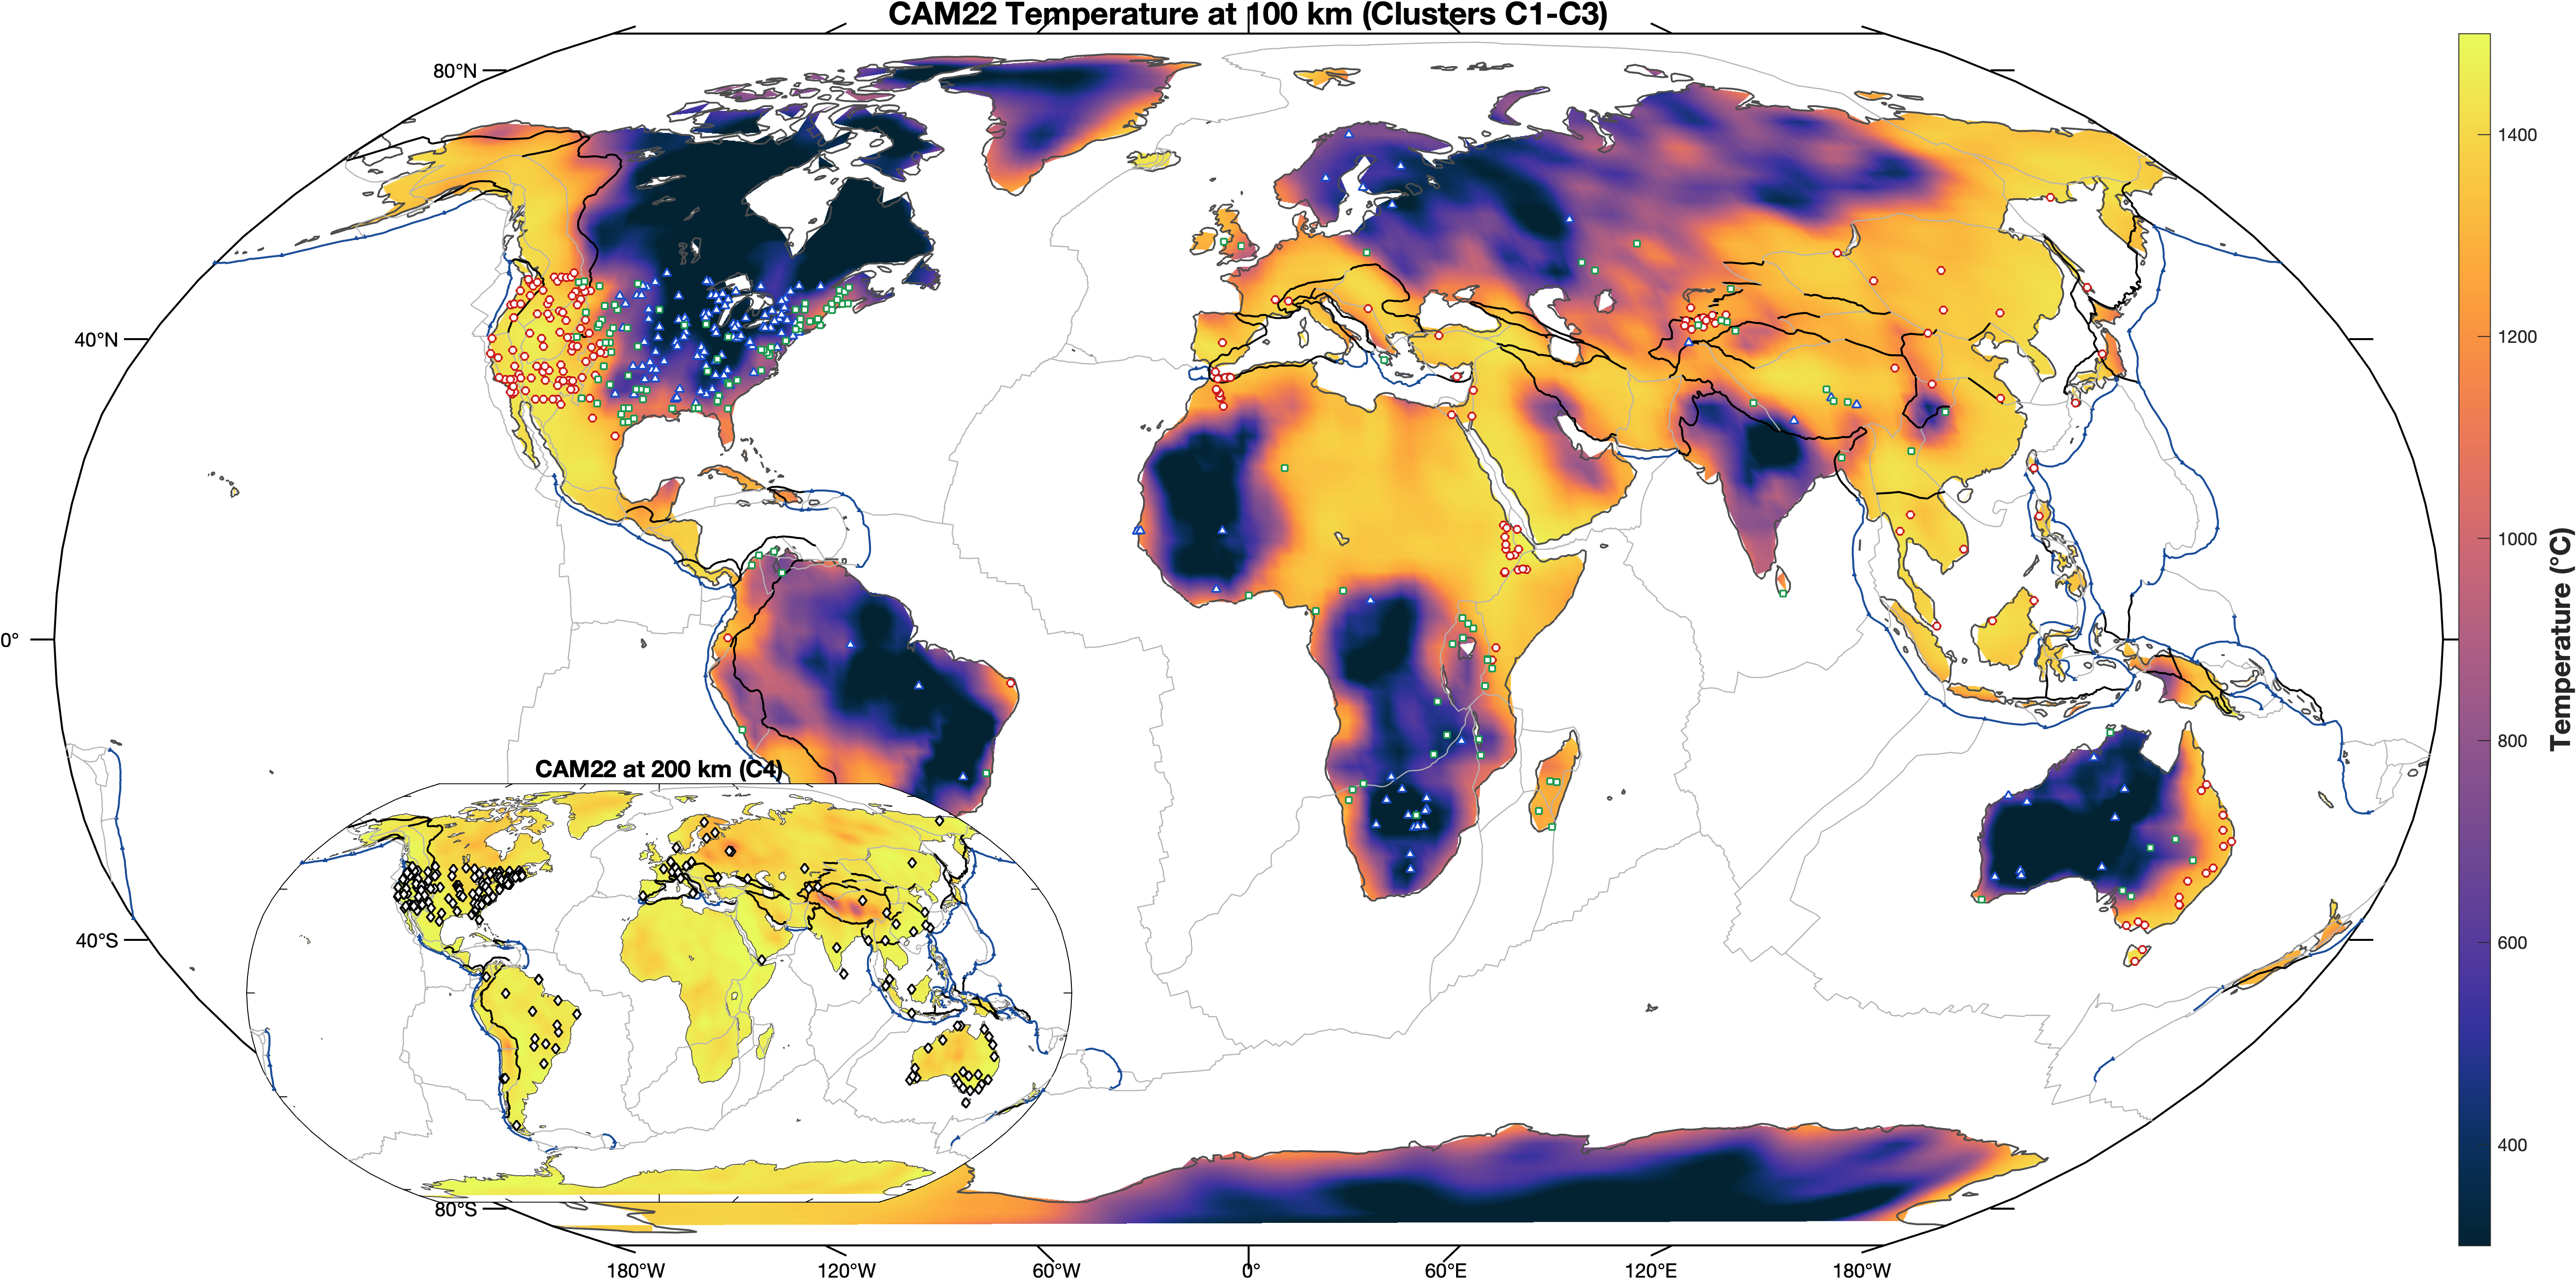
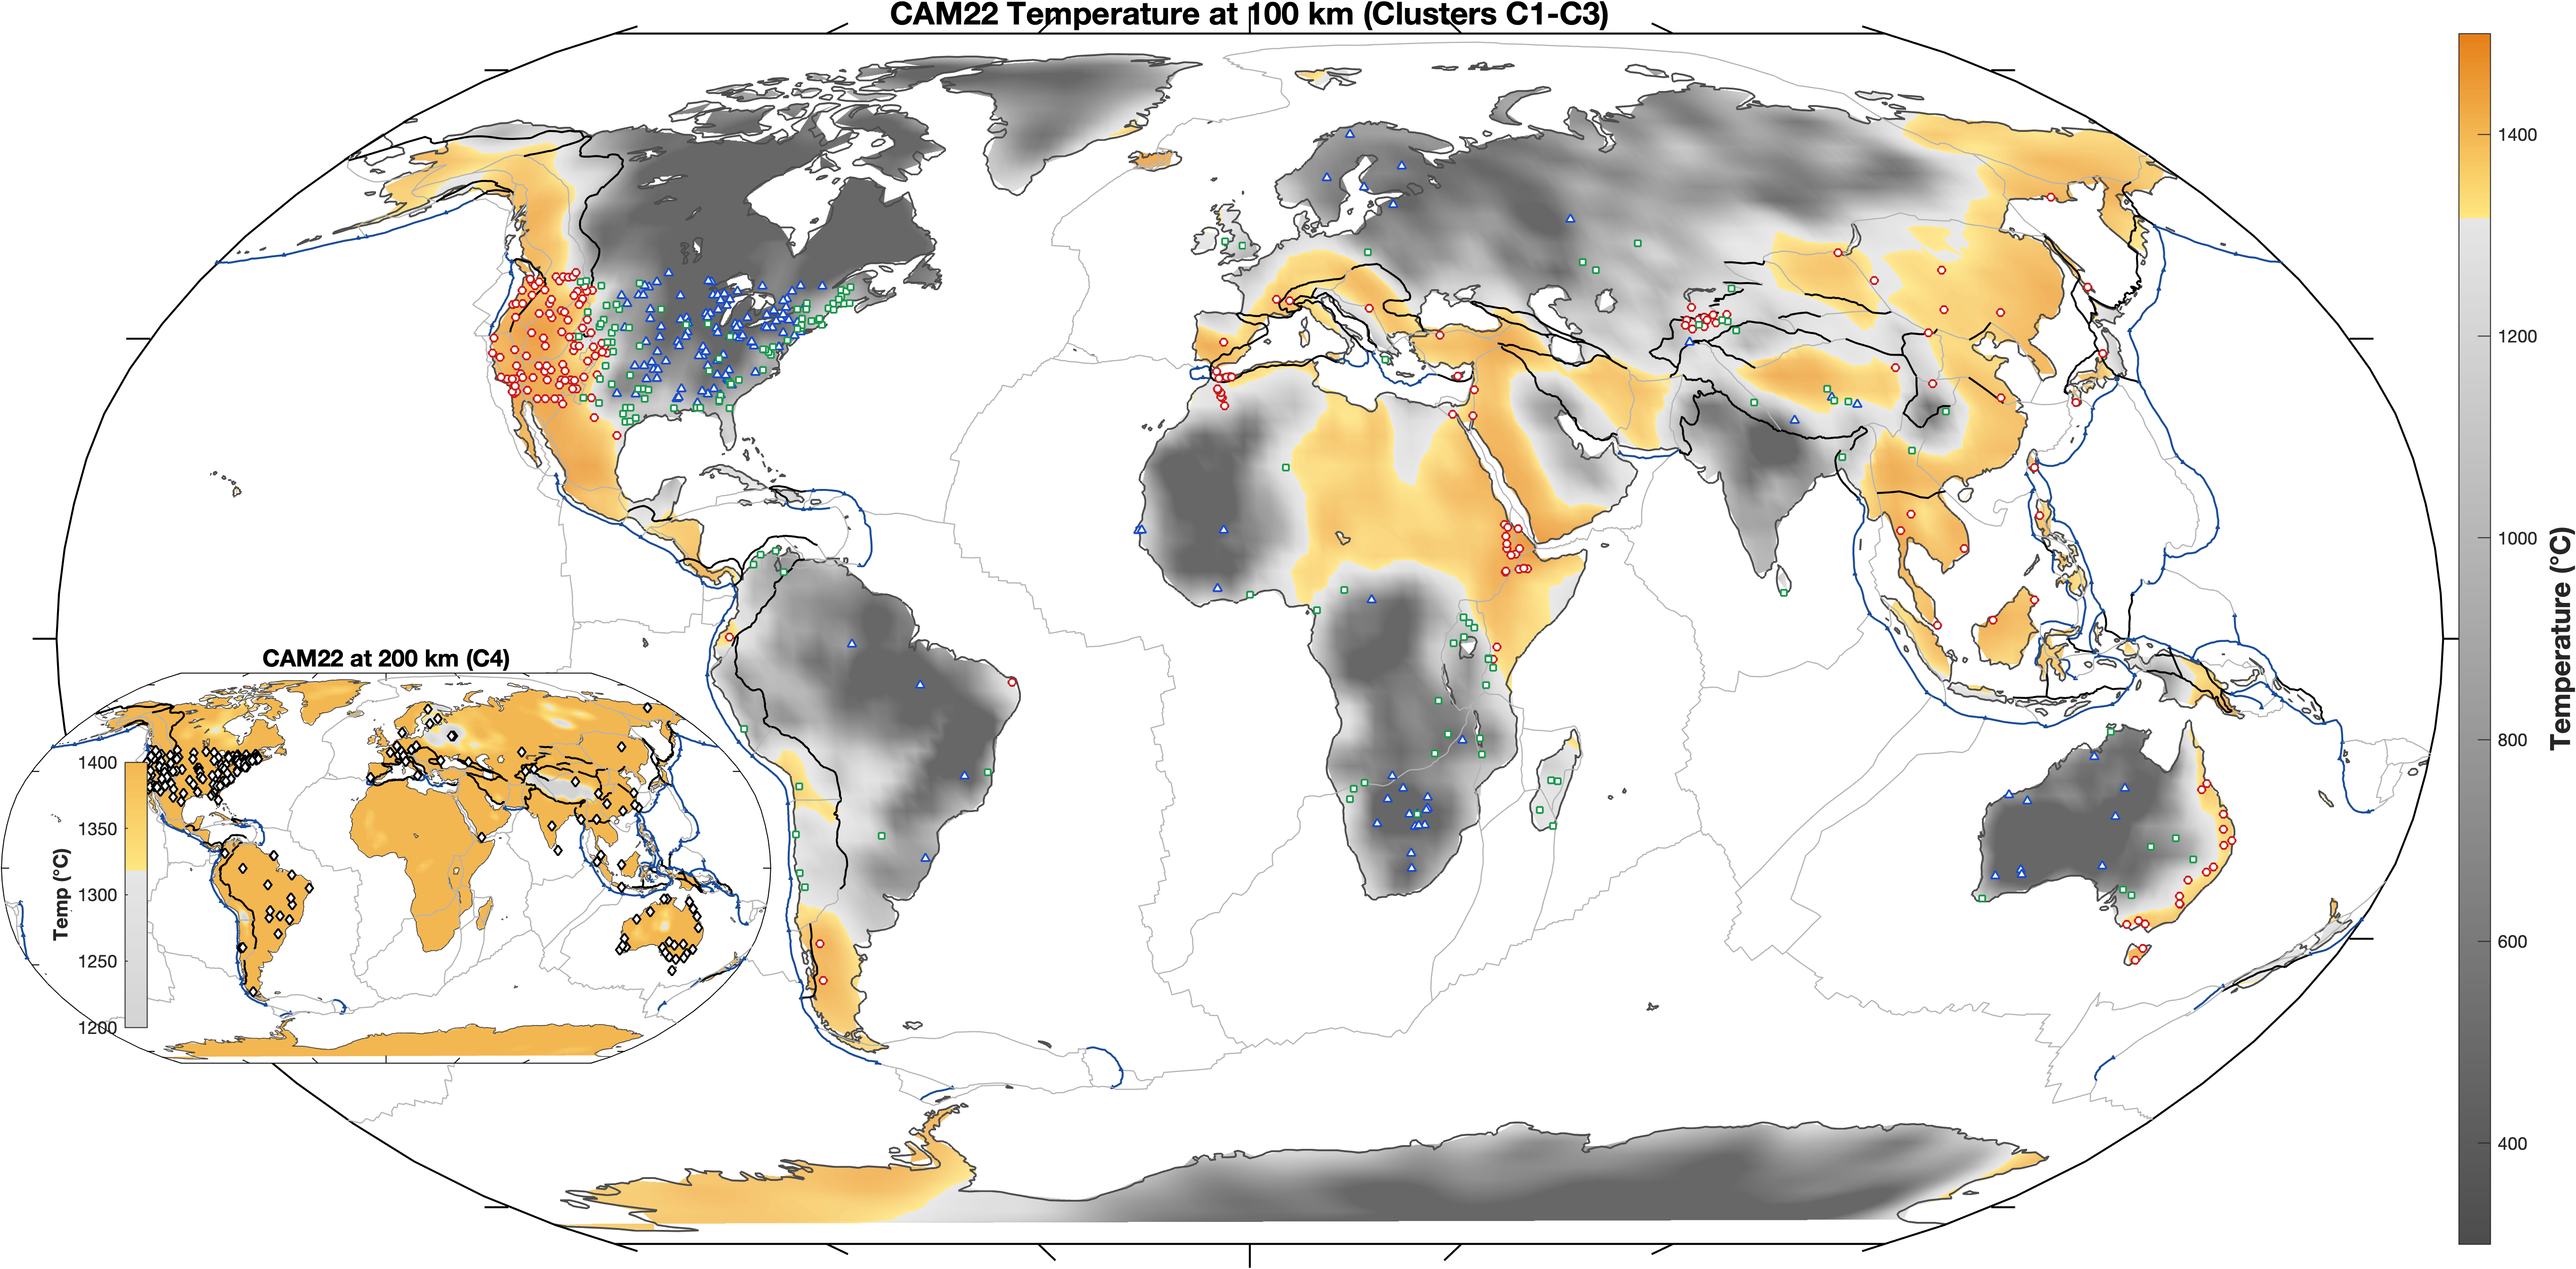
Draft: Update README and push missing finalized PNG

diff --git a/PlotScripts/Draft/Fig1/README.md b/PlotScripts/Draft/Fig1/README.md
@@ -6,65 +6,57 @@ This directory contains the prototype, production, and legacy scripts targeted f
 
 ## Script Index
 
-### 1. `Figure1_Amap_revised.m`
+### 1. `Figure1a_MapLocs.m` (Final Master Script)
+*   **Purpose**: Renders the finalized, polished global map and US-focused regional zoom map of thermal fields and station clusters.
+*   **Description**: Plots the 100km CAM22 absolute temperature field with a custom thermal LAB transition colormap, transparent map faces, and properly sized cluster symbols (C1-C3). Outputs two figures: a global overview with an inset (Pacific centered), and a zoomed-in detail map of the US lower-48 with explicit point bounding.
+*   **Inputs**:
+    *   `Data/Velocity_Models/CAM2022-vs-tmp.r0.0.nc` (CAM22 Temperature)
+    *   `Data/GlobalVs_Models/votemap_100_km.mat` (Tomography Voting Map)
+    *   `Data/MachineLearningData/rf_global_clustering/results/clustered_data_Neg_CAM22.csv`
+    *   `Data/global_tectonics/plates&provinces/shp/plate_boundaries.shp`
+*   **Outputs**:
+    *   `Figures/Global_Study/Figure1a_MapLocs.png` (Global view)
+    *   `Figures/Global_Study/Figure1a_US_MapLocs.png` (US Zoom view)
+
+### 2. `Figure1_Amap_revised.m`
 *   **Purpose**: Renders the revised 2-panel global Age-Craton map.
 *   **Description**: Discretizes Artemieva's global crustal age grid into three zones (Phanerozoic, Proterozoic, Archean). 
     *   **Panel A**: Overlays C1 (Melt: red circle), C2 (Rheological: blue circle+dot), and C3 (Metasomatic: green circle+cross) stations with transparent marker faces.
     *   **Panel B**: Overlays C4 (Deep Structural: black circle+star) stations.
 *   **Inputs**:
-    *   `Data/MachineLearningData/IrinaThermal/global-ages-0705-1x1.nc` (Artemieva Global Crustal Age grid)
-    *   `Data/MachineLearningData/rf_global_clustering/results/clustered_data_Neg_CAM22.csv` (Station cluster classifications and negative depth values)
-    *   `Data/MachineLearningData/rf_global_clustering/data/Data_Global_R1Meta.csv` (Station geographical metadata/coordinates)
-    *   `Data/global_tectonics/plates&provinces/shp/plate_boundaries.shp` (Plate boundary shapefile)
-*   **Outputs**:
-    *   `Figures/Global_Study/Figure1_Amap_revised_v1.png` (Standard version plotting all stations)
-    *   `Figures/Global_Study/Figure1_Amap_revised_v2.png` (Thinned version merging stations within 1° to their centroid)
-
-### 2. `Figure1_Amap_revised_NA.m`
-*   **Purpose**: Renders a zoomed-in, regional version of the 2-panel Age-Craton map for the United States lower-48 states.
-*   **Description**: Focuses the coordinates and projection bounds on the US Lower 48 (Lat: 24–50°N, Lon: 125–70°W). 
-*   **Inputs**:
-    *   Same inputs as `Figure1_Amap_revised.m`
-*   **Outputs**:
-    *   `Figures/Global_Study/Figure1_Amap_revised_NA_v1.png` (All NA stations)
-    *   `Figures/Global_Study/Figure1_Amap_revised_NA_v2.png` (Decluttered NA stations thinned within 1°)
-
-### 3. `Revision1_Summary_Scatter_LAB.m`
-*   **Purpose**: Compares seismic discontinuity depths from receiver functions against thermal and shear-velocity LAB depth profiles.
-*   **Description**: Plots statistical correlations, density histograms, and linear fits for stations to analyze lithospheric decoupling boundaries.
-*   **Inputs**:
-    *   `Data/MachineLearningData/rf_global_clustering/results/clustered_data_Neg_CAM22.csv`
-*   **Outputs**:
-    *   `Figures/Global_Study/Revision1_Summary_Scatter_LAB.png`
-
-### 4. `Figure1_Rev2.m`
-*   **Purpose**: Production figure script under development.
-*   **Description**: Aims to construct a 3-panel regional subplot layout (Americas, Europe/Africa, Asia/Australia) zoom to minimize distortion and make sparse stations visible.
-*   **Inputs**:
-    *   `Data/Velocity_Models/CAM2022-lithosphere.r0.0.nc` (CAM22 LAB model grid)
-    *   `Data/global_tectonics/plates&provinces/shp/plate_boundaries.shp`
-    *   `Data/GlobalVs_Models/votemap_100_km.mat` (Craton boundaries)
-    *   `Data/MachineLearningData/rf_global_clustering/results/clustered_data_Neg_CAM22.csv`
-*   **Outputs**:
-    *   TBD (under development)
-
-### 5. `Revision1_Figure1.m`
-*   **Purpose**: Legacy Figure 1 script.
-*   **Description**: Represents the original figure script displaying regional subplots mapping CAM22 LAB depths and station locations.
-*   **Inputs**:
-    *   `Data/Velocity_Models/CAM2022-lithosphere.r0.0.nc`
-    *   `Data/global_tectonics/plates&provinces/shp/plate_boundaries.shp`
-*   **Outputs**:
-    *   Legacy figure files
-
-### 6. `Figure1B_Scatter_Waveforms.m`
-*   **Purpose**: Renders the complete, multi-component waveforms and scatter comparison layout for Figure 1B.
-*   **Description**: Combines the 4 GMM-cluster stacked receiver function waveform panels and the 2D Joint KDE scatter comparison plots (vs. CAM-22 LAB) in a compact 2-row layout (Top Row: C2/C3; Bottom Row: C1/C4).
-*   **Inputs**:
+    *   `Data/MachineLearningData/IrinaThermal/global-ages-0705-1x1.nc`
     *   `Data/MachineLearningData/rf_global_clustering/results/clustered_data_Neg_CAM22.csv`
     *   `Data/MachineLearningData/rf_global_clustering/data/Data_Global_R1Meta.csv`
-    *   `Data/Velocity_Models/CAM2022-lithosphere.r0.0.nc`
-    *   `Data/MachineLearningData/RFs/sequenced_cluster0.mat` to `3.mat` (Sorted cluster waveforms)
+    *   `Data/global_tectonics/plates&provinces/shp/plate_boundaries.shp`
 *   **Outputs**:
-    *   `Figures/Global_Study/Figure1B_Scatter_Waveforms.png` (Tall 2:1 composite figure)
+    *   `Figures/Global_Study/Figure1_Amap_revised_v1.png` and `v2.png`
 
+### 3. `Figure1_Amap_revised_NA.m`
+*   **Purpose**: Renders a zoomed-in, regional version of the 2-panel Age-Craton map for the United States lower-48 states.
+
+### 4. `Figure1B_Scatter_Waveforms.m`
+*   **Purpose**: Renders the complete, multi-component waveforms and scatter comparison layout for Figure 1B.
+*   **Outputs**:
+    *   `Figures/Global_Study/Figure1B_Scatter_Waveforms.png`
+
+---
+
+## Supporting Maps (`Supporting/` Directory)
+
+The `Supporting/` directory contains a collection of scripts moved from previous draft phases (`Fig2`). These scripts generate supplementary global maps and statistical comparisons that complement the main Figure 1 outputs.
+
+### `FigureS1a_Maps.m`
+*   **Purpose**: Plots CAM22 Temperature, DBRD-NATURE2020 Melt Content, and Tomography Consensus side-by-side.
+*   **Output**: `Figures/Global_Study/FigureS1a_Maps.png`
+
+### `FigureS1b_Maps_Stats.m`
+*   **Purpose**: Combines global maps (Temperature, Melt, Votemap) with multi-model empirical cumulative distribution function (eCDF) statistical plots.
+*   **Output**: `Figures/Global_Study/FigureS1b_Maps_Stats.png`
+
+### `FigureS1c_MapsLocs.m`
+*   **Purpose**: Combines global maps with explicitly overlaid cluster station locations (C1-C4) and correlation scatter plots. Generated automatically via `generate_figS1c.py`.
+*   **Output**: `Figures/Global_Study/FigureS1c_MapsLocs.png`
+
+### `FigureS1c_StatsOnly.m`
+*   **Purpose**: Generates solely the statistical correlation scatter plots without the heavy map renders.
+*   **Output**: `Figures/Global_Study/FigureS1c_StatsOnly.png`